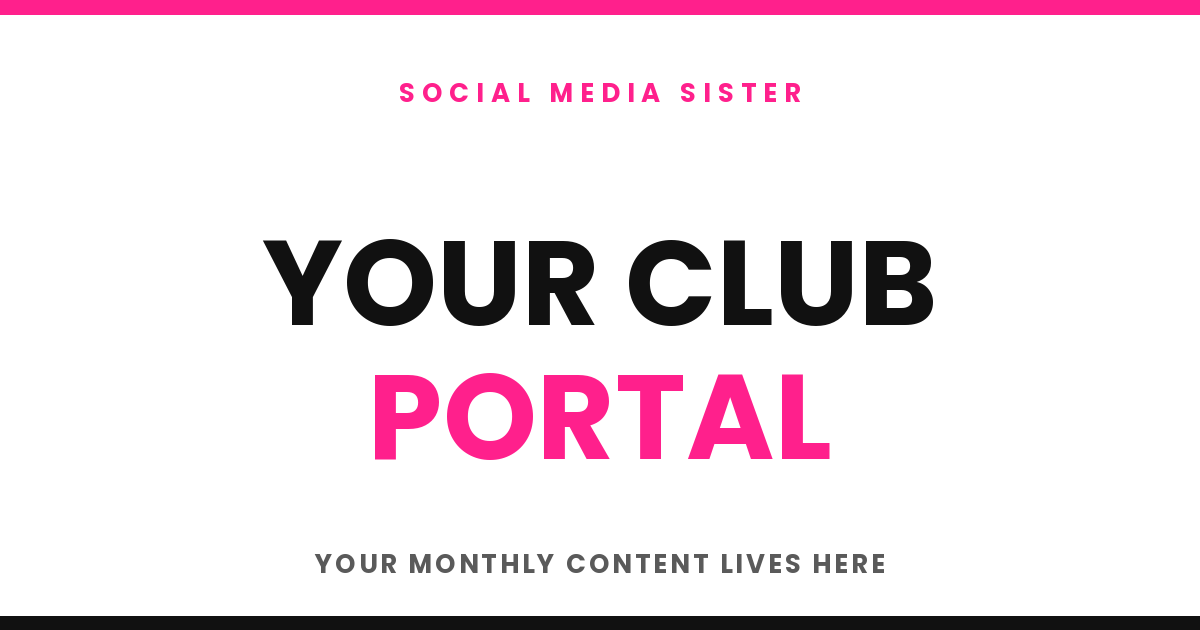
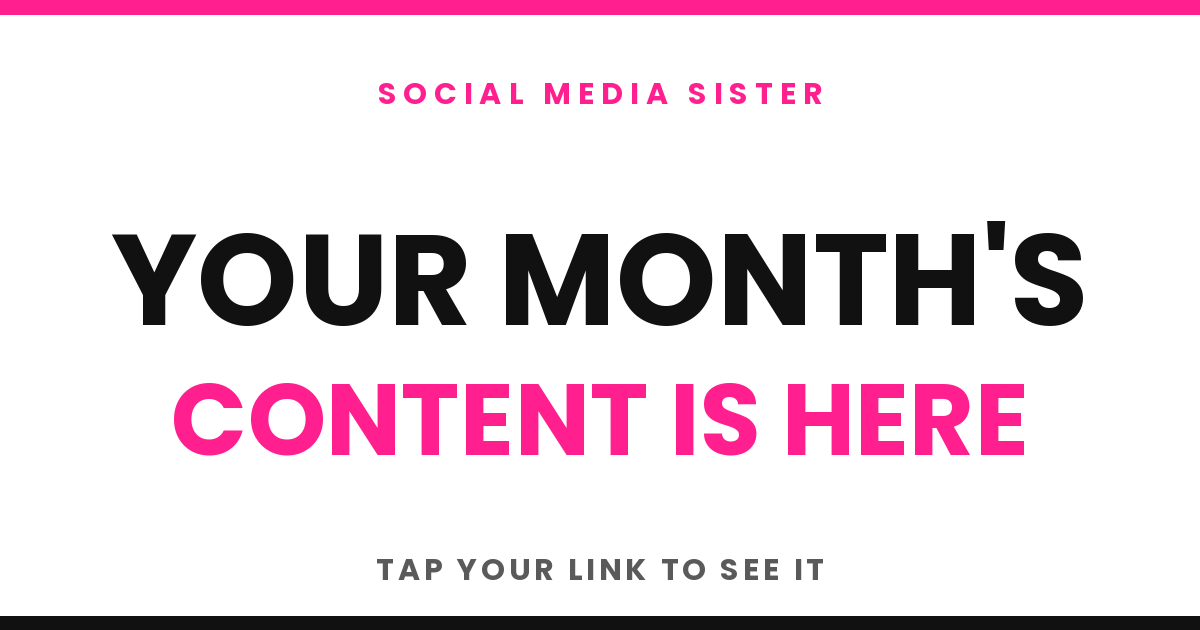
Club link thumbnail: Your month's content is here
Claude-Session: https://claude.ai/code/session_017kNL1WAyytMwNiGGDwsUBv

diff --git a/netlify/edge-functions/lib/previews.ts b/netlify/edge-functions/lib/previews.ts
@@ -200,8 +200,8 @@ export const PREVIEWS: { id: string; paths: string[]; title: string; desc: strin
    "/club",
    "/club/*"
   ],
-  "title": "Your club portal",
-  "desc": "Your monthly content lives here."
+  "title": "Your month's content is here",
+  "desc": "Tap your link to see it, pick your posts and download."
  },
  {
   "id": "youreinvited",
